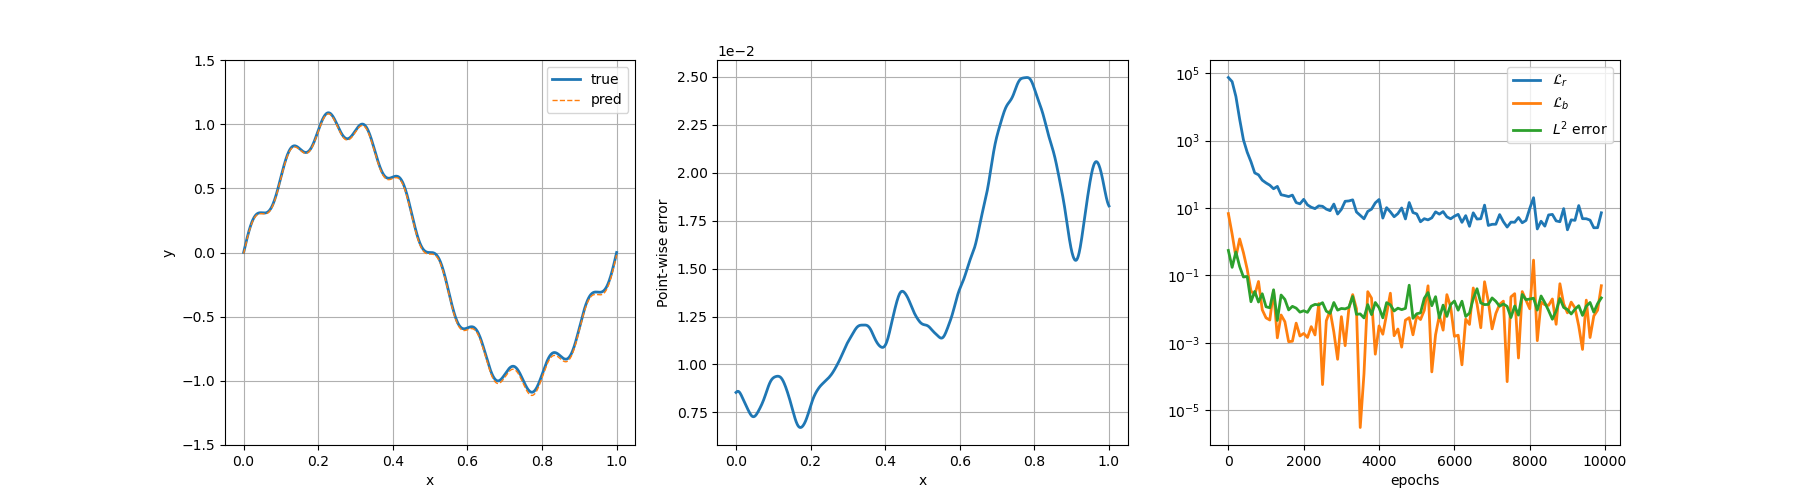
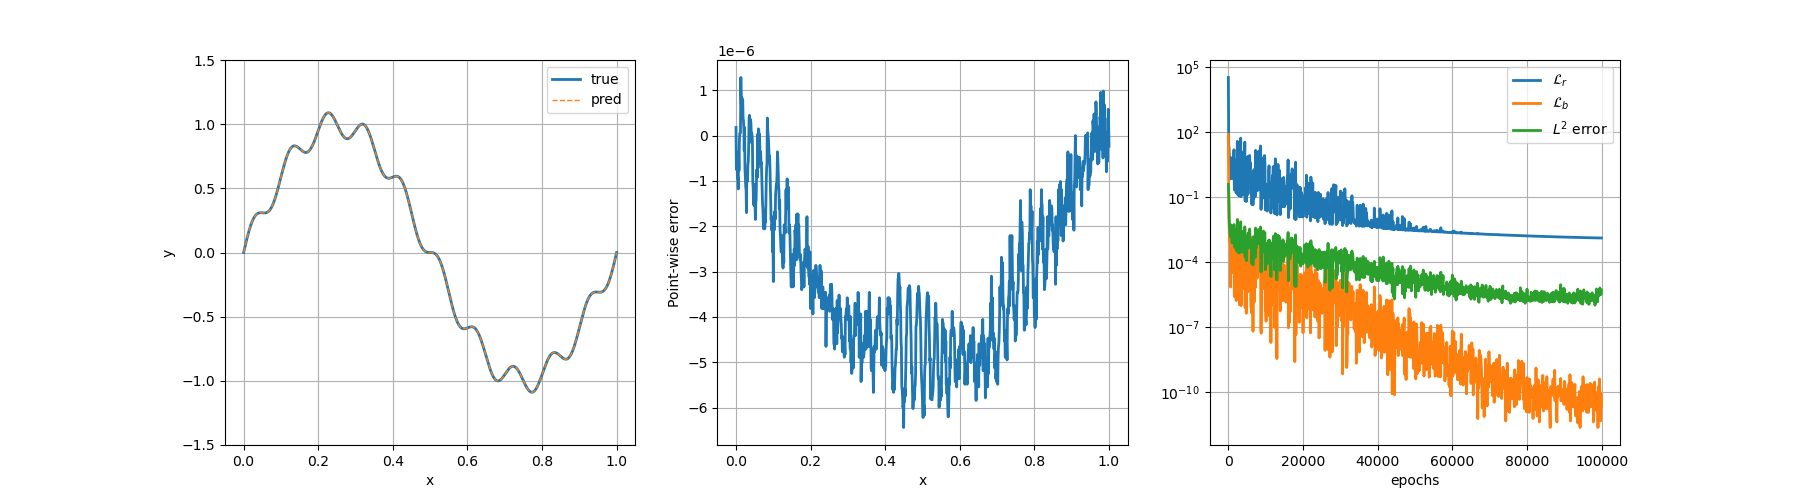
add adaptive activation

diff --git a/ff/FF_ntk_AdaptiveActivation.py b/ff/FF_ntk_AdaptiveActivation.py
@@ -8,7 +8,7 @@ import time
 device = 'cuda'
 
 class NN_FF(nn.Module):
-    def __init__(self, layer_sizes, sigma, is_fourier_layer_trainable=True):
+    def __init__(self, layer_sizes, sigma, n=10, is_fourier_layer_trainable=True):
         super(NN_FF, self).__init__()
         if is_fourier_layer_trainable:
             self.B1 = nn.Parameter(torch.normal(0, 1, size=(1, layer_sizes[1] // 2)) * sigma)
@@ -23,6 +23,15 @@ class NN_FF(nn.Module):
             nn.init.normal_(m.bias, mean=0, std=1)
             self.linears.append(m)
 
+        self.A1 = nn.ParameterList()
+        for i in range(1, len(self.linears)):
+            a1 = nn.Parameter(torch.rand(layer_sizes[i]))
+            # a1 = nn.Parameter(torch.rand(1))
+            self.A1.append(a1)
+        
+        # self.A1 = nn.Parameter(torch.rand(1))
+        self.n = n
+
         # Normalization
         X = torch.rand([100000, 1])
         self.mu_X, self.sigma_X = X.mean(), X.std()
@@ -31,8 +40,11 @@ class NN_FF(nn.Module):
         x = (x - self.mu_X) / self.sigma_X
         x = torch.cat(( sin(torch.matmul(x, self.B1)),
                         cos(torch.matmul(x, self.B1))), dim=-1)
-        for linear in self.linears[:-1]:
-            x = torch.tanh(linear(x))
+        for linear, a in zip(self.linears[:-1], self.A1):
+        # for linear in self.linears[:-1]:
+            # x = torch.tanh(linear(x))
+            x = torch.tanh(self.n * a * linear(x))
+            # x = torch.tanh(self.n * self.A1 * linear(x))
         x = self.linears[-1](x)
         return x 
 
@@ -77,7 +89,6 @@ if __name__ == '__main__':
     def u_xx(x, a, b, n):
         return -(a*pi)**2 * sin(a * pi * x) - n*(b*pi)**2 * sin(b * pi * x)
     
-
     # Test data
     x_test = torch.autograd.Variable(torch.linspace(0, 1, 1000).unsqueeze(-1)).to(device)
     y = u(x_test, a, b, n)
@@ -87,6 +98,7 @@ if __name__ == '__main__':
     is_fourier_layer_trainable = True
     is_compute_ntk = False
     sigma = 1
+    activation_n = 10
     lr = 1e-3
     lr_n = 10
     layer_sizes = [1] + [100] * 3 + [1]
@@ -94,7 +106,9 @@ if __name__ == '__main__':
     epochs = 100000
 
     # net
-    net = NN_FF(layer_sizes, sigma, is_fourier_layer_trainable).to(device)
+    net = NN_FF(layer_sizes, sigma, activation_n, is_fourier_layer_trainable).to(device)
+    for name,parameters in net.named_parameters():
+        print(name,':',parameters.size())
 
     # loss
     loss_fn = nn.MSELoss().to(device)
@@ -123,6 +137,7 @@ if __name__ == '__main__':
     loss_bcs_log = []
     l2_error_log = []
     ntk_log = []
+    A1_log = []
 
     # Train
     start_time = time.time()
@@ -163,6 +178,9 @@ if __name__ == '__main__':
             loss_bcs_log.append(loss_bcs.item())
             loss_res_log.append(loss_res.item())
             l2_error_log.append(l2_error.item())
+            # A1_log.append(net.A1[0].item())
+            # print(net.A1[0])
+            # print(net.A1[1])
 
             if is_compute_ntk:
                 result_ntk = empirical_ntk(fnet_single, params, x_train, x_train, 'trace')
@@ -170,6 +188,7 @@ if __name__ == '__main__':
             
             start_time = time.time()
             scheduler.step()
+
 
     # Plot
     fig, (ax1, ax2, ax3) = plt.subplots(1, 3, figsize=(18, 5))
@@ -195,7 +214,9 @@ if __name__ == '__main__':
     ax3.set_xlabel('epochs')
     ax3.legend()
     ax3.grid(True)
-    fig.savefig('./ff/plot/s{:d}_b{:d}_lr{:d}'.format(sigma, b, lr_n))
+    # fig.savefig('./ff/AdaptiveActivation/s{:d}_b{:d}_lr{:d}_aa_globalwise'.format(sigma, b, lr_n))
+    # fig.savefig('./ff/AdaptiveActivation/s{:d}_b{:d}_lr{:d}_aa_layerwise'.format(sigma, b, lr_n))
+    fig.savefig('./ff/AdaptiveActivation/s{:d}_b{:d}_lr{:d}_aa_neuronwise'.format(sigma, b, lr_n))
     plt.show()
     
     if is_compute_ntk:
@@ -243,4 +264,11 @@ if __name__ == '__main__':
         ax.set_ylabel(r'$\lambda$') 
         ax.set_title('Spectrum')
         plt.legend()
+        plt.show()
+
+        fig, ax = plt.subplots(figsize=(6, 5))
+        ax.plot(100*np.arange(len(A1_log)), A1_log, label='A1', linewidth=2)
+        ax.set_xlabel('epochs')
+        ax.legend()
+        ax.grid(True)
         plt.show()
